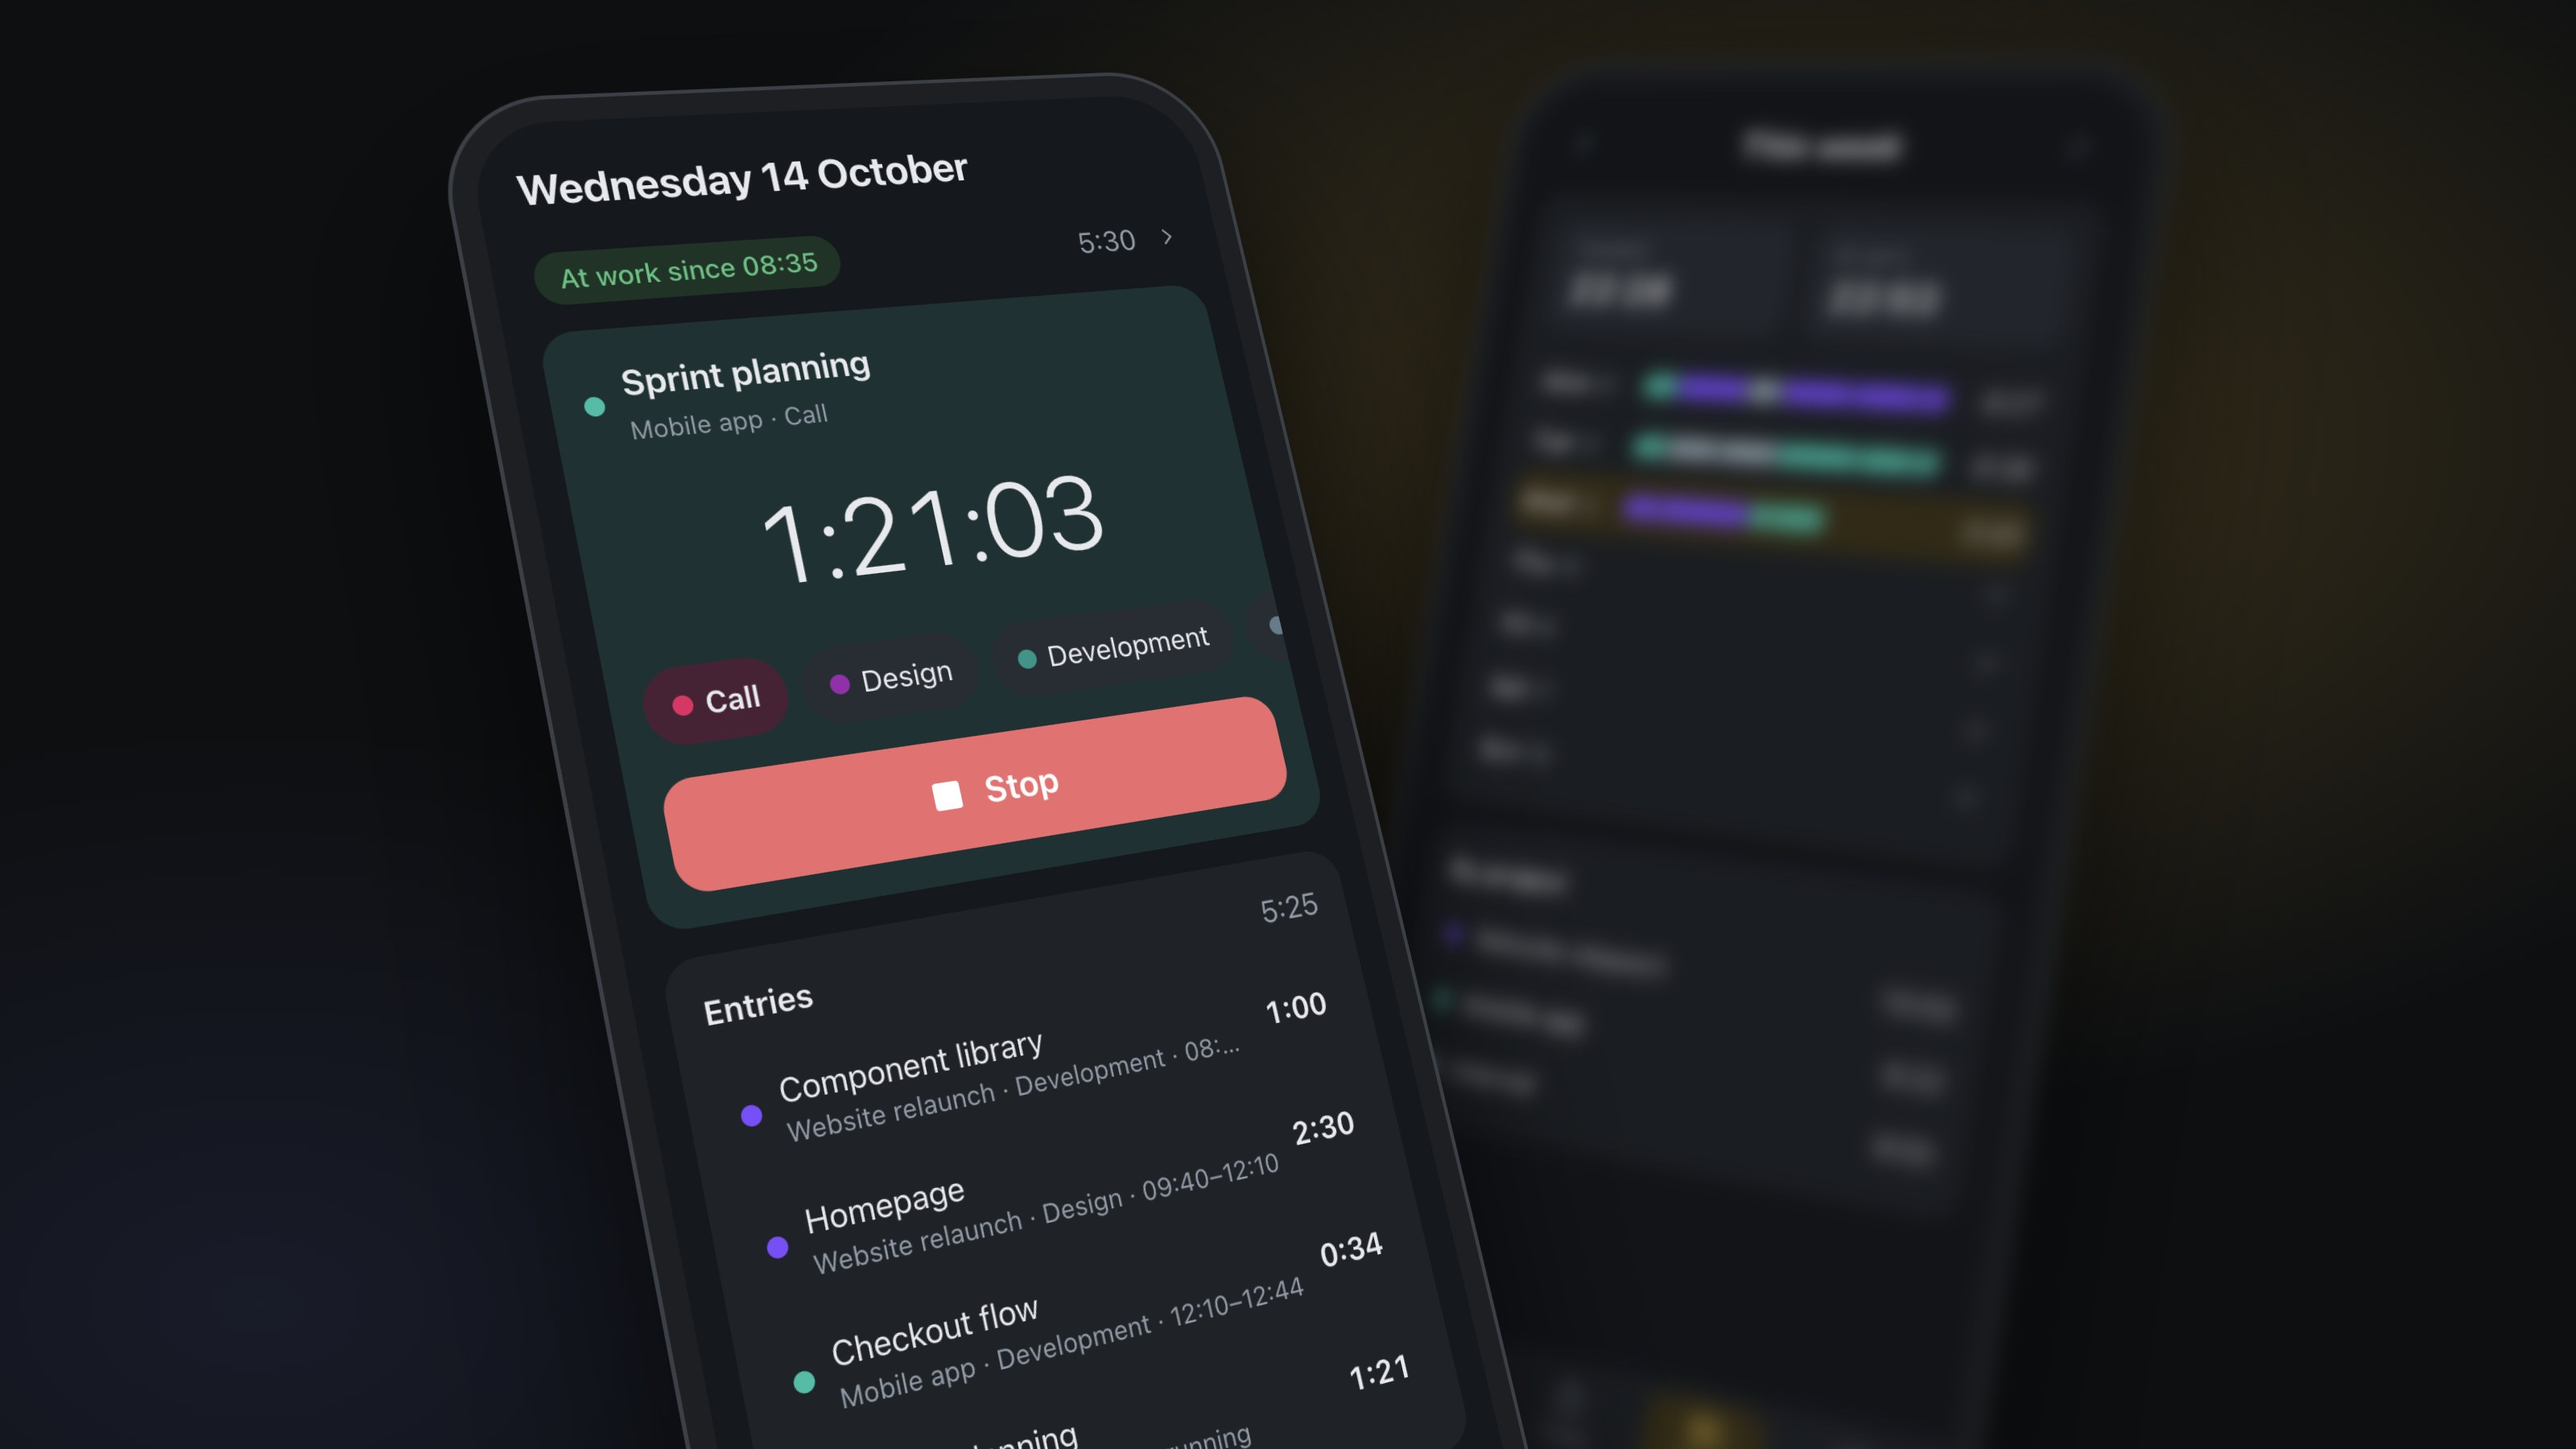
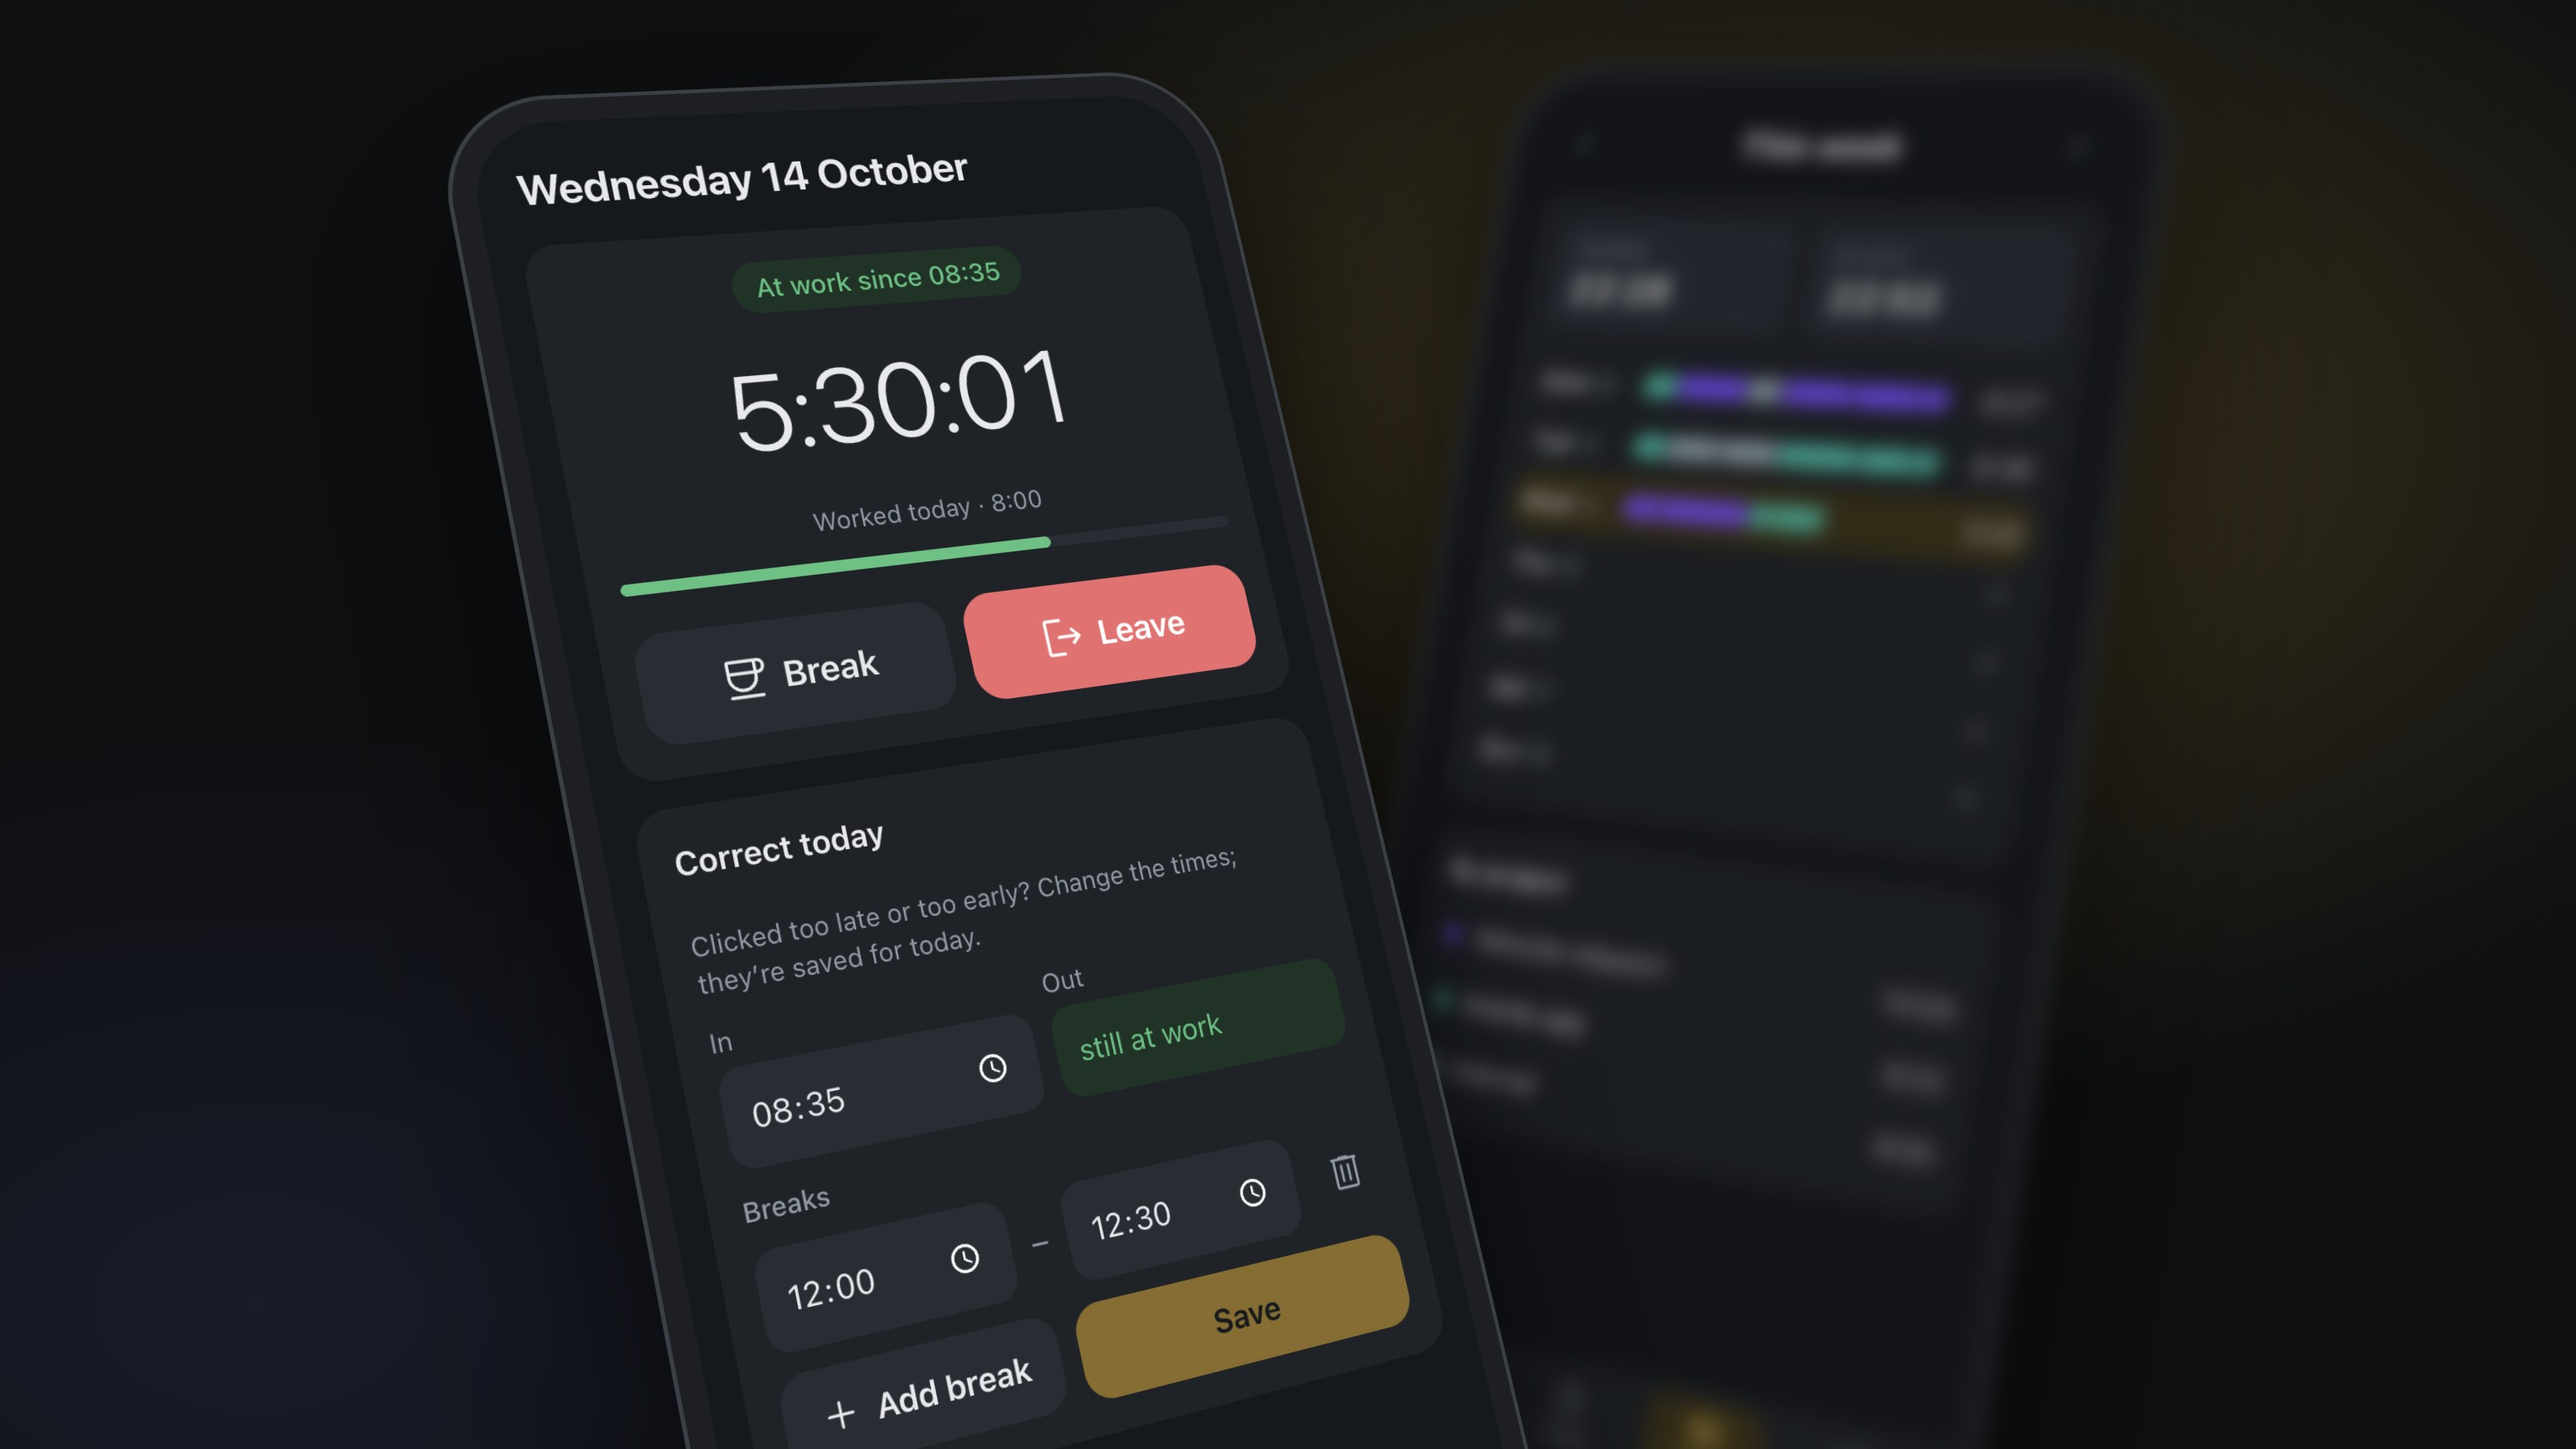
README: phone close-up shows the new time clock (Stempeln)

diff --git a/README.md b/README.md
@@ -47,10 +47,10 @@ you where you stand.
 
 ### On your phone too
 
-A small web app on your own server (see [server/README.md](server/README.md)): clock in on the way in, start or switch a
-timer, and check your week. Pair a phone by scanning a QR code from the Mac app.
+A small web app on your own server (see [server/README.md](server/README.md)): clock in on the way in, correct today's
+times, start or switch a timer, and check your week. Pair a phone by scanning a QR code from the Mac app.
 
-<img src="docs/hero/hero-phone.jpg" width="880" alt="The phone web app: today and this week">
+<img src="docs/hero/hero-phone.jpg" width="880" alt="The phone web app: the time clock with Correct today, and the week behind it">
 
 ## Screenshots
 
